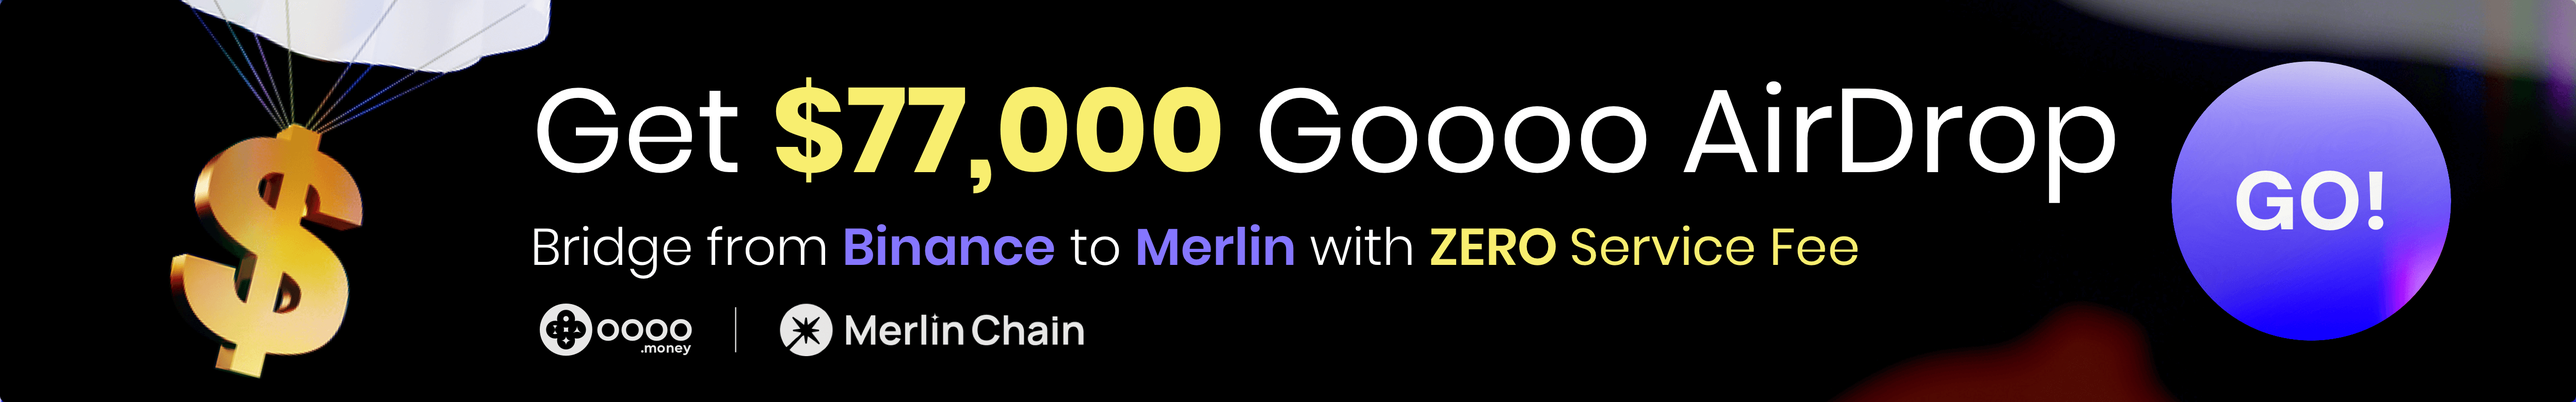
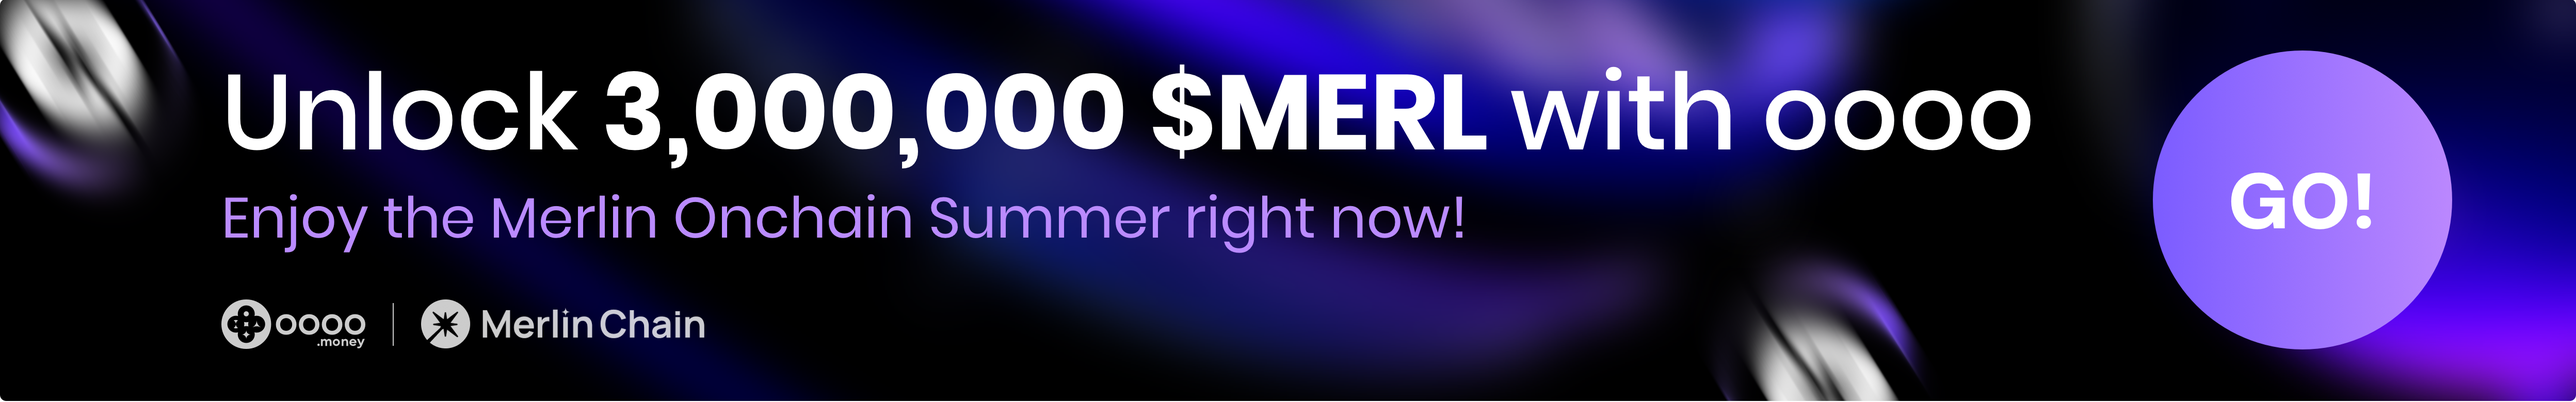
Release v1.12.5 (#22)
* fix: update merlin activity banner and link

* chore: update version

diff --git a/src/components/layout/AppCarousel/AppCarousel.vue b/src/components/layout/AppCarousel/AppCarousel.vue
@@ -41,7 +41,7 @@ const activies = import.meta.env.VITE_NETWORK === NETWORK.LIVENET
       name: 'Goooo Airdrop',
       imageMobile: MERLIN_MOBILE_IMAGE,
       imagePC: MERLIN_PC_IMAGE,
-      url: 'http://app.galxe.com/quest/oooo/GCcMftdAkc'
+      url: 'https://app.galxe.com/quest/oooo/GCXMctdbZ4'
     }
   ]
   : []
